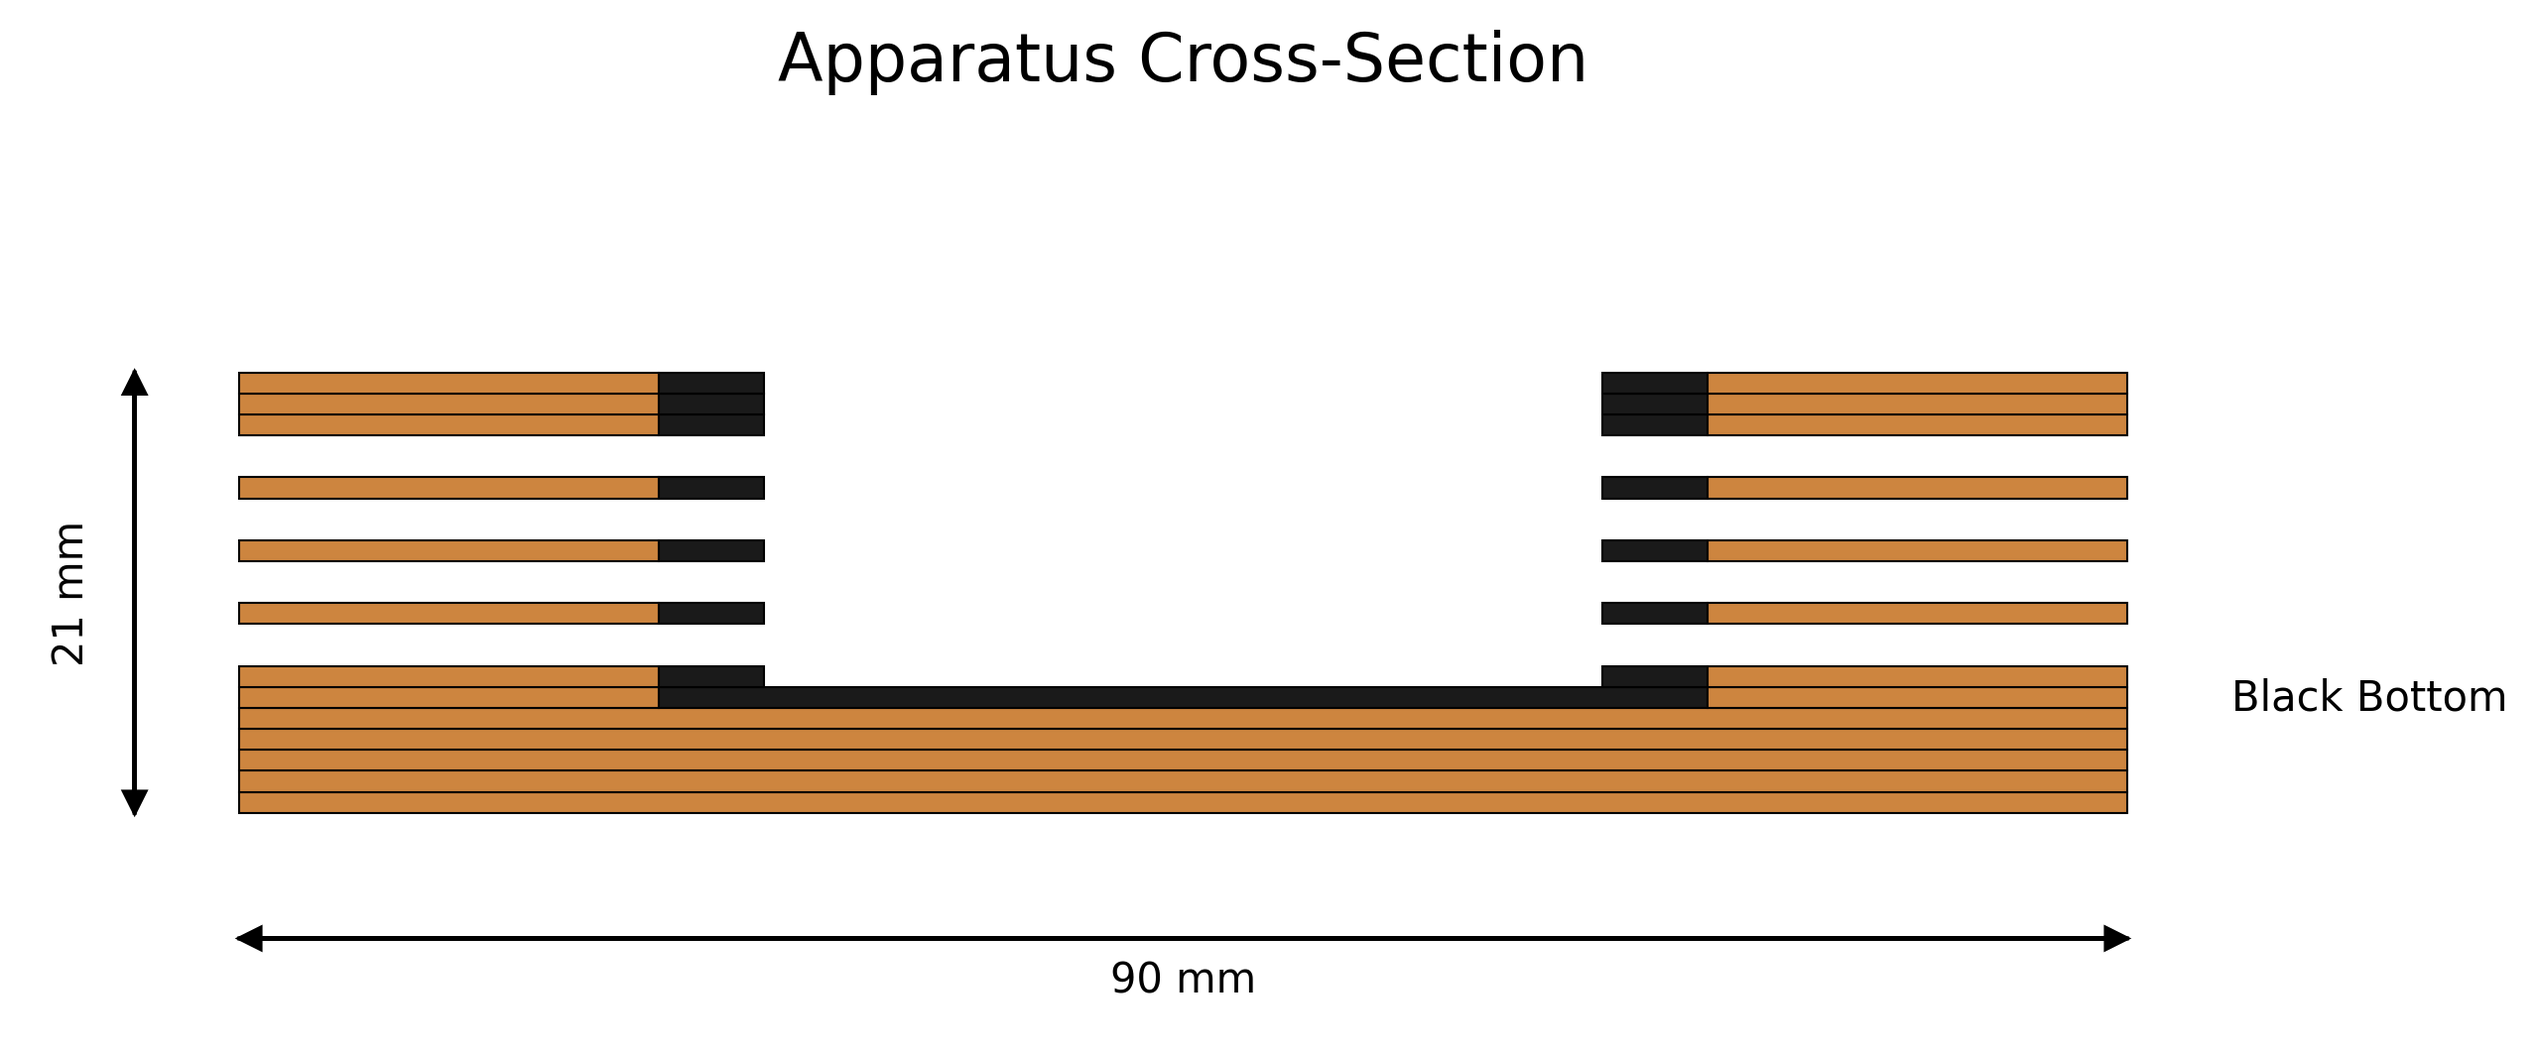
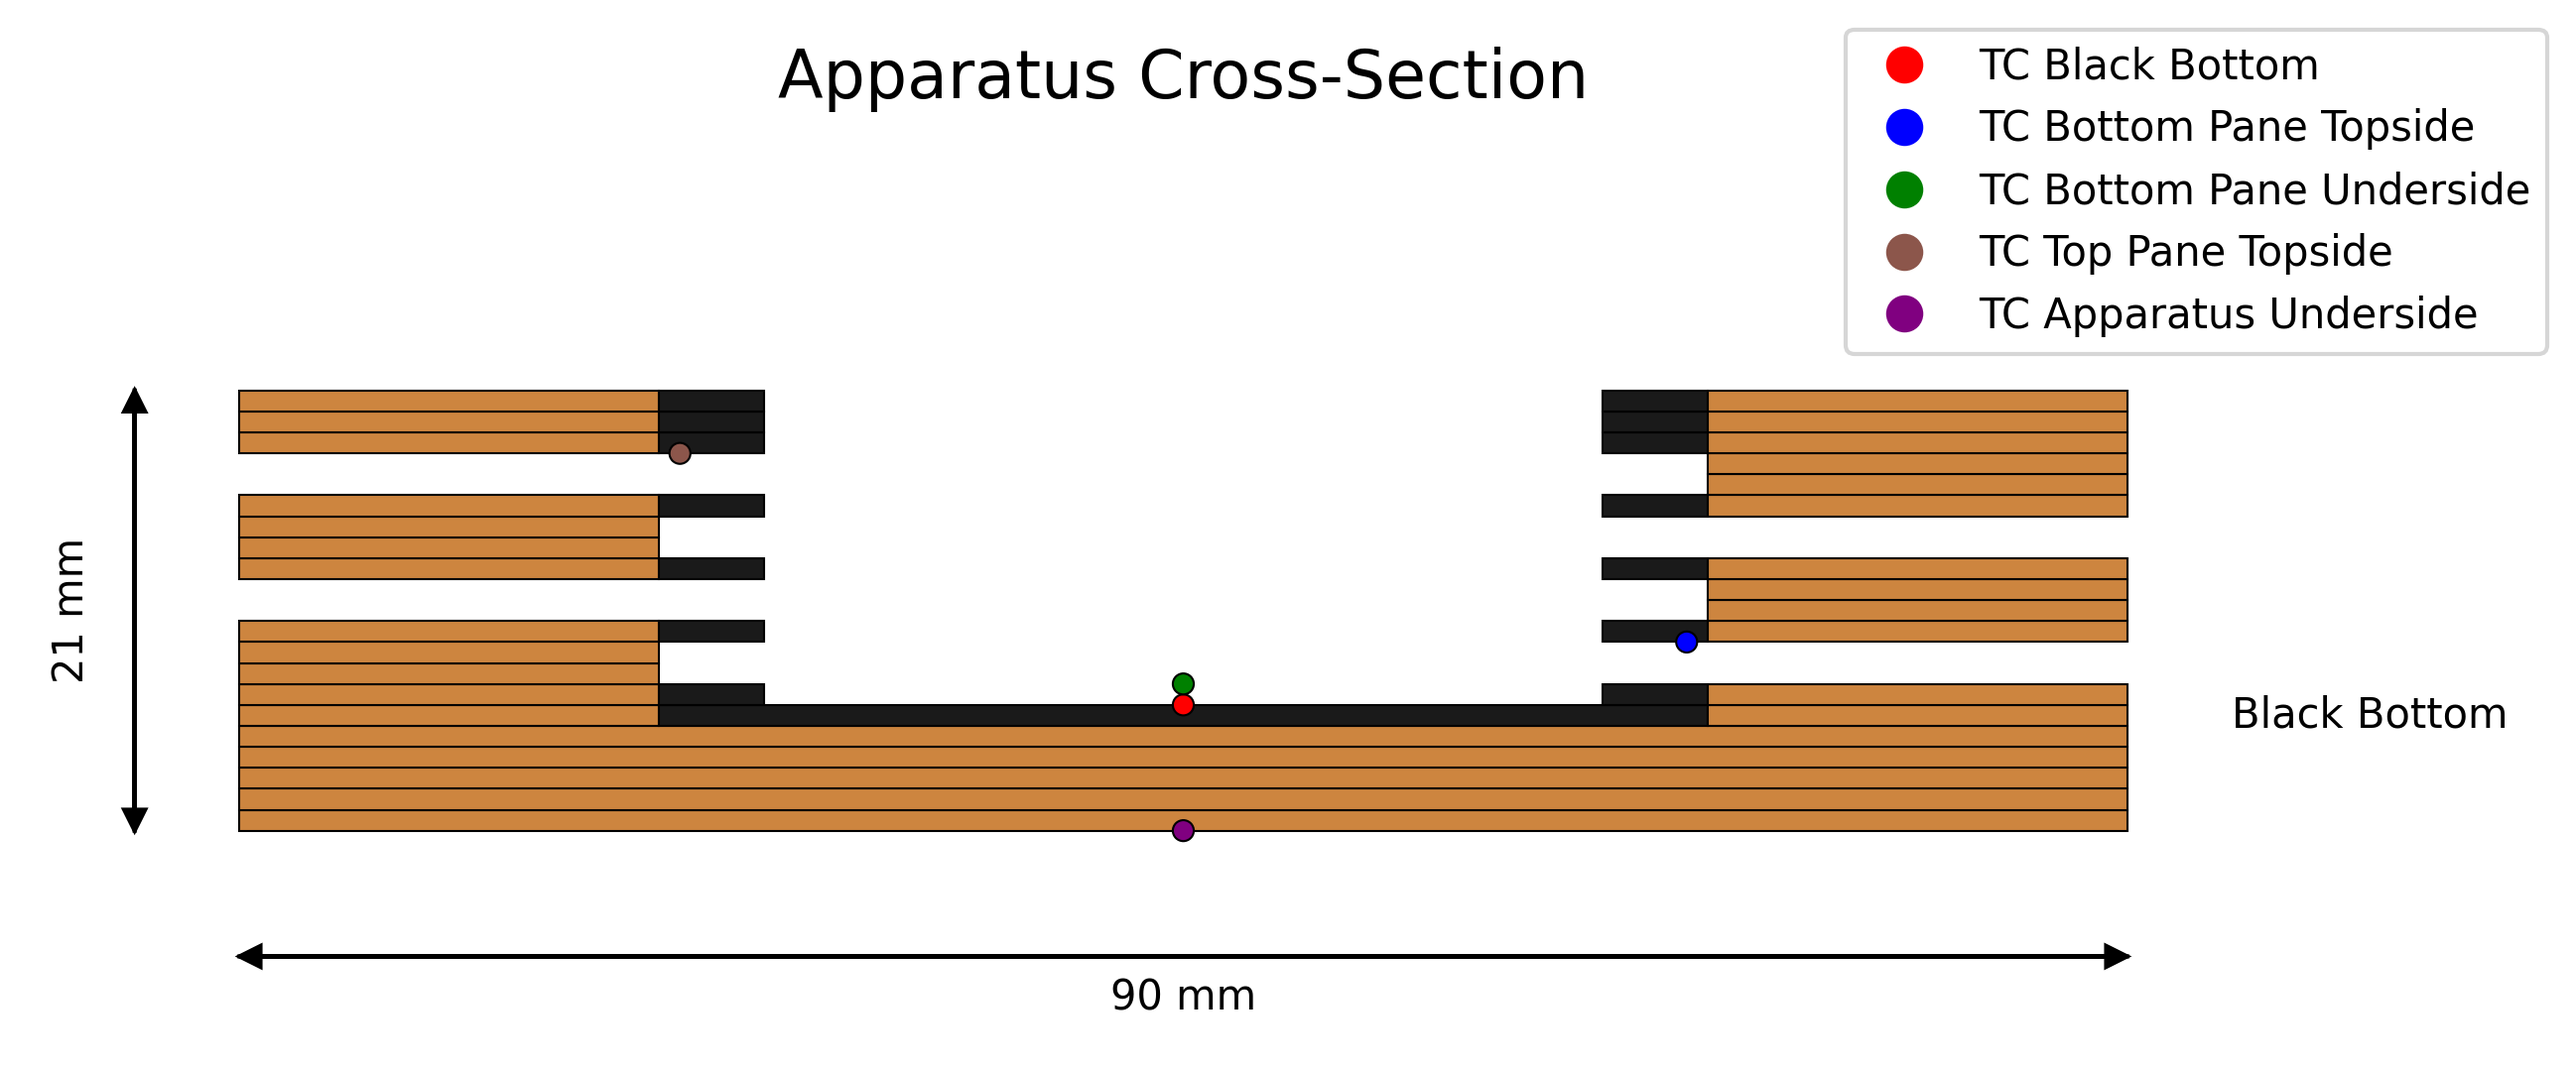
tweak

diff --git a/figure2-apparatus/generate_apparatus_2d.py b/figure2-apparatus/generate_apparatus_2d.py
@@ -288,6 +288,54 @@ def draw_apparatus(ax, with_glasses=True):
                 
             glass_panes.append(glass)
             glass_positions.append(y_position)
+        else:
+            # Draw just the cork sides without glass
+            total_side_width = (CORK_DIAMETER - GLASS_DIAMETER) / 2
+            # Calculate dimensions for the cork segments on the sides
+            if i == 0 or i == 2:  # Left side cork for panes 1 and 3
+                # First layer on left side
+                left_cork1 = patches.Rectangle(
+                    (-CORK_DIAMETER/2, y_position),
+                    total_side_width, LAYER_THICKNESS,
+                    facecolor=CORK_COLOR,
+                    edgecolor='black',
+                    linewidth=0.5
+                )
+                ax.add_patch(left_cork1)
+                
+                # Second layer on left side
+                left_cork2 = patches.Rectangle(
+                    (-CORK_DIAMETER/2, y_position + LAYER_THICKNESS),
+                    total_side_width, LAYER_THICKNESS,
+                    facecolor=CORK_COLOR,
+                    edgecolor='black',
+                    linewidth=0.5
+                )
+                ax.add_patch(left_cork2)
+            else:  # Right side cork for panes 2 and 4
+                # First layer on right side
+                right_cork1 = patches.Rectangle(
+                    (GLASS_DIAMETER/2, y_position),
+                    total_side_width, LAYER_THICKNESS,
+                    facecolor=CORK_COLOR,
+                    edgecolor='black',
+                    linewidth=0.5
+                )
+                ax.add_patch(right_cork1)
+                
+                # Second layer on right side
+                right_cork2 = patches.Rectangle(
+                    (GLASS_DIAMETER/2, y_position + LAYER_THICKNESS),
+                    total_side_width, LAYER_THICKNESS,
+                    facecolor=CORK_COLOR,
+                    edgecolor='black',
+                    linewidth=0.5
+                )
+                ax.add_patch(right_cork2)
+            
+            # Still track the positions for thermocouples
+            glass_positions.append(y_position)
+        
         y_position += GLASS_THICKNESS
         
         # Cork separator between glass panes (only one layer)
@@ -299,8 +347,9 @@ def draw_apparatus(ax, with_glasses=True):
         draw_cork_layer(ax, y_position, draw_hole=True)
         y_position += LAYER_THICKNESS
     
-    # Draw thermocouples if glass panes are present
-    if with_glasses:
+    # Draw thermocouples (regardless of glass presence)
+    # Only check if glass_positions is available, which happens in both cases now
+    if glass_positions:
         # Red thermocouple - top of black bottom (centered)
         red_tc = draw_thermocouple(
             ax,
@@ -381,13 +430,13 @@ def draw_apparatus(ax, with_glasses=True):
                     f'Pane {i+1}', ha='left', va='center')
     
     # Add legend for thermocouples
-    if with_glasses:
+    if glass_positions:  # Same condition as for drawing thermocouples
         legend_elements = [
             Line2D([0], [0], marker='o', color='w', markerfacecolor=RED_TC_COLOR, markersize=10, label='TC Black Bottom'),
             Line2D([0], [0], marker='o', color='w', markerfacecolor=BLUE_TC_COLOR, markersize=10, label='TC Bottom Pane Topside'),
             Line2D([0], [0], marker='o', color='w', markerfacecolor=GREEN_TC_COLOR, markersize=10, label='TC Bottom Pane Underside'),
+            Line2D([0], [0], marker='o', color='w', markerfacecolor=BROWN_TC_COLOR, markersize=10, label='TC Top Pane Topside'),
             Line2D([0], [0], marker='o', color='w', markerfacecolor=PURPLE_TC_COLOR, markersize=10, label='TC Apparatus Underside'),
-            Line2D([0], [0], marker='o', color='w', markerfacecolor=BROWN_TC_COLOR, markersize=10, label='TC Top Pane Topside')
         ]
         ax.legend(handles=legend_elements, loc='upper right', bbox_to_anchor=(1.1, 1.2))
 
